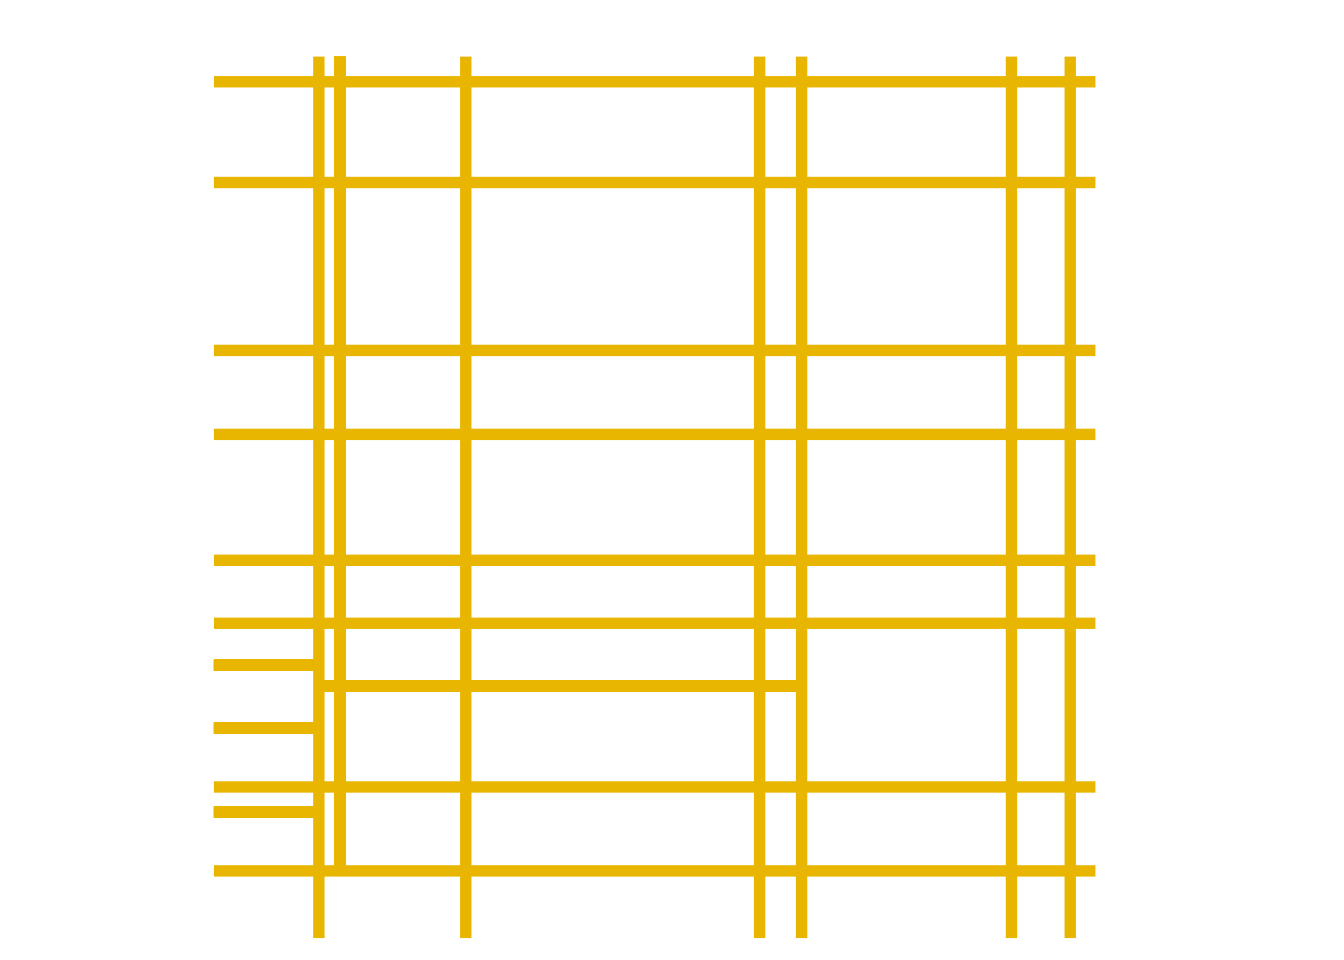
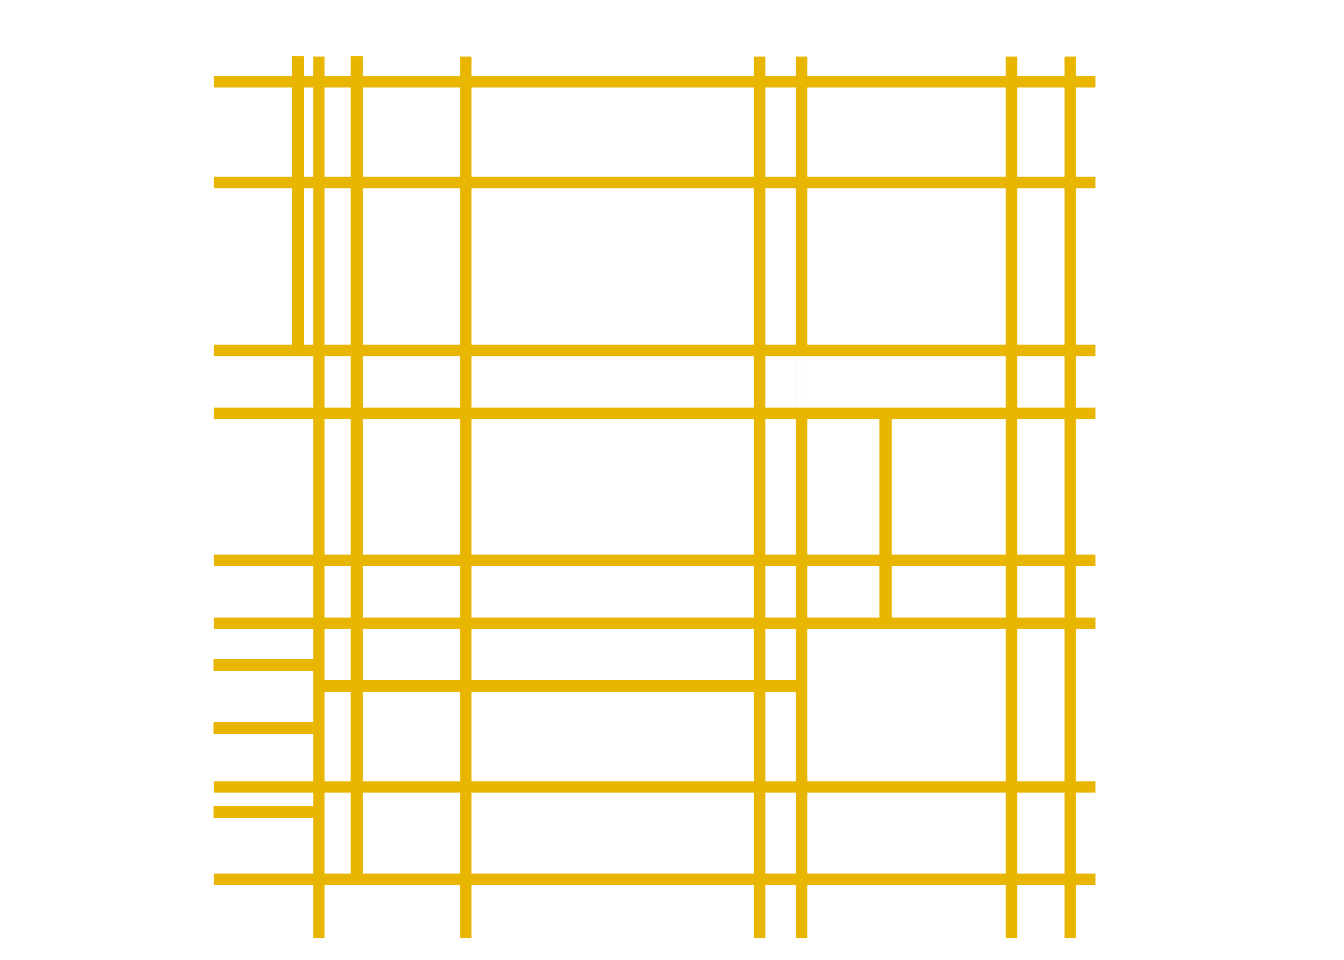
plot lines done

Changed region(s): [[0.1562, 0.0625, 0.8125, 0.9375]]

diff --git a/Painting4.html b/Painting4.html
@@ -125,6 +125,8 @@ pre > code.sourceCode > span > a:first-child::before { text-decoration: underlin
 <span id="cb4-9"><a href="#cb4-9" aria-hidden="true" tabindex="-1"></a>    <span class="at">aspect.ratio =</span> <span class="dv">1</span>)</span>
 <span id="cb4-10"><a href="#cb4-10" aria-hidden="true" tabindex="-1"></a>}</span></code><button title="Copy to Clipboard" class="code-copy-button"><i class="bi"></i></button></pre></div>
 </div>
+<p><em>Plot 4 outline</em>:</p>
+<p>plot base: done plot lines: done rectangles: line dots:</p>
 <div class="cell">
 <div class="sourceCode cell-code" id="cb5"><pre class="sourceCode r code-with-copy"><code class="sourceCode r"><span id="cb5-1"><a href="#cb5-1" aria-hidden="true" tabindex="-1"></a><span class="fu">set.seed</span>(<span class="dv">1</span>)</span>
 <span id="cb5-2"><a href="#cb5-2" aria-hidden="true" tabindex="-1"></a></span>
@@ -145,21 +147,24 @@ pre > code.sourceCode > span > a:first-child::before { text-decoration: underlin
 <span id="cb5-17"><a href="#cb5-17" aria-hidden="true" tabindex="-1"></a></span>
 <span id="cb5-18"><a href="#cb5-18" aria-hidden="true" tabindex="-1"></a>horizontal_lines <span class="ot">&lt;-</span> <span class="fu">data.frame</span>(</span>
 <span id="cb5-19"><a href="#cb5-19" aria-hidden="true" tabindex="-1"></a>  <span class="at">x =</span> <span class="fu">c</span>(<span class="dv">10</span>, <span class="dv">10</span>, <span class="dv">10</span>, <span class="dv">10</span>, <span class="dv">10</span>, <span class="dv">10</span>, <span class="dv">10</span>, <span class="dv">10</span>),</span>
-<span id="cb5-20"><a href="#cb5-20" aria-hidden="true" tabindex="-1"></a>  <span class="at">y =</span> <span class="fu">c</span>(<span class="fl">0.3</span>, <span class="fl">1.3</span>, <span class="fl">3.25</span>, <span class="dv">4</span>, <span class="fl">5.5</span>, <span class="fl">6.5</span>, <span class="fl">8.5</span>, <span class="fl">9.7</span>)</span>
+<span id="cb5-20"><a href="#cb5-20" aria-hidden="true" tabindex="-1"></a>  <span class="at">y =</span> <span class="fu">c</span>(<span class="fl">0.2</span>, <span class="fl">1.3</span>, <span class="fl">3.25</span>, <span class="dv">4</span>, <span class="fl">5.75</span>, <span class="fl">6.5</span>, <span class="fl">8.5</span>, <span class="fl">9.7</span>)</span>
 <span id="cb5-21"><a href="#cb5-21" aria-hidden="true" tabindex="-1"></a>)</span>
 <span id="cb5-22"><a href="#cb5-22" aria-hidden="true" tabindex="-1"></a></span>
 <span id="cb5-23"><a href="#cb5-23" aria-hidden="true" tabindex="-1"></a></span>
 <span id="cb5-24"><a href="#cb5-24" aria-hidden="true" tabindex="-1"></a><span class="fu">ggplot</span>() <span class="sc">+</span></span>
 <span id="cb5-25"><a href="#cb5-25" aria-hidden="true" tabindex="-1"></a>  <span class="fu">geom_segment</span>(<span class="at">data =</span> vertical_lines, <span class="fu">aes</span>(<span class="at">x =</span> x, <span class="at">y =</span> <span class="sc">-</span><span class="fl">0.5</span>, <span class="at">xend =</span> x, <span class="at">yend =</span> y), <span class="at">color =</span> <span class="st">"#E8B600"</span>, <span class="at">size =</span> <span class="dv">2</span>) <span class="sc">+</span></span>
-<span id="cb5-26"><a href="#cb5-26" aria-hidden="true" tabindex="-1"></a>  <span class="fu">geom_segment</span>(<span class="at">data =</span> vertical_lines, <span class="fu">aes</span>(<span class="at">x =</span> <span class="dv">1</span>, <span class="at">y =</span> <span class="fl">0.3</span>, <span class="at">xend =</span> <span class="dv">1</span>, <span class="at">yend =</span> y), <span class="at">color =</span> <span class="st">"#E8B600"</span>, <span class="at">size =</span> <span class="dv">2</span>) <span class="sc">+</span></span>
-<span id="cb5-27"><a href="#cb5-27" aria-hidden="true" tabindex="-1"></a>  <span class="fu">geom_segment</span>(<span class="at">data =</span> horizontal_lines, <span class="fu">aes</span>(<span class="at">x =</span> <span class="sc">-</span><span class="fl">0.5</span>, <span class="at">y =</span> y, <span class="at">xend =</span> x, <span class="at">yend =</span> y), <span class="at">color =</span> <span class="st">"#E8B600"</span>, <span class="at">size =</span> <span class="dv">2</span>) <span class="sc">+</span></span>
-<span id="cb5-28"><a href="#cb5-28" aria-hidden="true" tabindex="-1"></a>  <span class="fu">geom_segment</span>(<span class="at">data=</span> horizontal_lines, <span class="fu">aes</span>(<span class="at">x=</span><span class="sc">-</span><span class="fl">0.5</span>, <span class="at">y=</span><span class="fl">2.75</span>, <span class="at">xend=</span><span class="fl">0.75</span>, <span class="at">yend=</span><span class="fl">2.75</span>), <span class="at">color =</span> <span class="st">"#E8B600"</span>, <span class="at">size =</span> <span class="dv">2</span>) <span class="sc">+</span></span>
-<span id="cb5-29"><a href="#cb5-29" aria-hidden="true" tabindex="-1"></a>  <span class="fu">geom_segment</span>(<span class="at">data=</span> horizontal_lines, <span class="fu">aes</span>(<span class="at">x=</span><span class="sc">-</span><span class="fl">0.5</span>, <span class="at">y=</span><span class="dv">2</span>, <span class="at">xend=</span><span class="fl">0.75</span>, <span class="at">yend=</span><span class="dv">2</span>), <span class="at">color =</span> <span class="st">"#E8B600"</span>, <span class="at">size =</span> <span class="dv">2</span>) <span class="sc">+</span></span>
-<span id="cb5-30"><a href="#cb5-30" aria-hidden="true" tabindex="-1"></a>  <span class="fu">geom_segment</span>(<span class="at">data=</span> horizontal_lines, <span class="fu">aes</span>(<span class="at">x=</span><span class="sc">-</span><span class="fl">0.5</span>, <span class="at">y=</span><span class="dv">1</span>, <span class="at">xend=</span><span class="fl">0.75</span>, <span class="at">yend=</span><span class="dv">1</span>), <span class="at">color =</span> <span class="st">"#E8B600"</span>, <span class="at">size =</span> <span class="dv">2</span>) <span class="sc">+</span></span>
-<span id="cb5-31"><a href="#cb5-31" aria-hidden="true" tabindex="-1"></a>  <span class="fu">geom_segment</span>(<span class="at">data=</span> horizontal_lines, <span class="fu">aes</span>(<span class="at">x=</span> <span class="fl">0.75</span>, <span class="at">y=</span><span class="fl">2.5</span>, <span class="at">xend=</span><span class="fl">6.5</span>, <span class="at">yend=</span><span class="fl">2.5</span>), <span class="at">color =</span> <span class="st">"#E8B600"</span>, <span class="at">size =</span> <span class="dv">2</span>) <span class="sc">+</span></span>
-<span id="cb5-32"><a href="#cb5-32" aria-hidden="true" tabindex="-1"></a>  <span class="fu">coord_cartesian</span>(<span class="at">xlim =</span> <span class="fu">c</span>(<span class="dv">0</span>, <span class="dv">10</span>), <span class="at">ylim =</span> <span class="fu">c</span>(<span class="dv">0</span>, <span class="dv">10</span>)) <span class="sc">+</span></span>
-<span id="cb5-33"><a href="#cb5-33" aria-hidden="true" tabindex="-1"></a>  <span class="fu">scale_fill_identity</span>() <span class="sc">+</span></span>
-<span id="cb5-34"><a href="#cb5-34" aria-hidden="true" tabindex="-1"></a>  <span class="fu">my_theme</span>()</span></code><button title="Copy to Clipboard" class="code-copy-button"><i class="bi"></i></button></pre></div>
+<span id="cb5-26"><a href="#cb5-26" aria-hidden="true" tabindex="-1"></a>  <span class="fu">geom_segment</span>(<span class="at">data =</span> vertical_lines, <span class="fu">aes</span>(<span class="at">x =</span> <span class="fl">1.2</span>, <span class="at">y =</span> <span class="fl">0.2</span>, <span class="at">xend =</span> <span class="fl">1.2</span>, <span class="at">yend =</span> y), <span class="at">color =</span> <span class="st">"#E8B600"</span>, <span class="at">size =</span> <span class="dv">2</span>) <span class="sc">+</span></span>
+<span id="cb5-27"><a href="#cb5-27" aria-hidden="true" tabindex="-1"></a>  <span class="fu">geom_segment</span>(<span class="at">data =</span> vertical_lines, <span class="fu">aes</span>(<span class="at">x =</span> <span class="fl">0.5</span>, <span class="at">y =</span> <span class="fl">6.5</span>, <span class="at">xend =</span> <span class="fl">0.5</span>, <span class="at">yend =</span> y), <span class="at">color =</span> <span class="st">"#E8B600"</span>, <span class="at">size =</span> <span class="dv">2</span>) <span class="sc">+</span></span>
+<span id="cb5-28"><a href="#cb5-28" aria-hidden="true" tabindex="-1"></a>  <span class="fu">geom_segment</span>(<span class="at">data =</span> vertical_lines, <span class="fu">aes</span>(<span class="at">x =</span> <span class="fl">6.5</span>, <span class="at">y =</span> <span class="fl">5.75</span>, <span class="at">xend =</span> <span class="fl">6.5</span>, <span class="at">yend =</span> <span class="fl">6.5</span>), <span class="at">color =</span> <span class="st">"white"</span>, <span class="at">size =</span> <span class="dv">2</span>) <span class="sc">+</span></span>
+<span id="cb5-29"><a href="#cb5-29" aria-hidden="true" tabindex="-1"></a>  <span class="fu">geom_segment</span>(<span class="at">data =</span> vertical_lines, <span class="fu">aes</span>(<span class="at">x =</span> <span class="fl">7.5</span>, <span class="at">y =</span> <span class="fl">3.25</span>, <span class="at">xend =</span> <span class="fl">7.5</span>, <span class="at">yend =</span> <span class="fl">5.75</span>), <span class="at">color =</span> <span class="st">"#E8B600"</span>, <span class="at">size =</span> <span class="dv">2</span>) <span class="sc">+</span></span>
+<span id="cb5-30"><a href="#cb5-30" aria-hidden="true" tabindex="-1"></a>  <span class="fu">geom_segment</span>(<span class="at">data =</span> horizontal_lines, <span class="fu">aes</span>(<span class="at">x =</span> <span class="sc">-</span><span class="fl">0.5</span>, <span class="at">y =</span> y, <span class="at">xend =</span> x, <span class="at">yend =</span> y), <span class="at">color =</span> <span class="st">"#E8B600"</span>, <span class="at">size =</span> <span class="dv">2</span>) <span class="sc">+</span></span>
+<span id="cb5-31"><a href="#cb5-31" aria-hidden="true" tabindex="-1"></a>  <span class="fu">geom_segment</span>(<span class="at">data=</span> horizontal_lines, <span class="fu">aes</span>(<span class="at">x=</span><span class="sc">-</span><span class="fl">0.5</span>, <span class="at">y=</span><span class="fl">2.75</span>, <span class="at">xend=</span><span class="fl">0.75</span>, <span class="at">yend=</span><span class="fl">2.75</span>), <span class="at">color =</span> <span class="st">"#E8B600"</span>, <span class="at">size =</span> <span class="dv">2</span>) <span class="sc">+</span></span>
+<span id="cb5-32"><a href="#cb5-32" aria-hidden="true" tabindex="-1"></a>  <span class="fu">geom_segment</span>(<span class="at">data=</span> horizontal_lines, <span class="fu">aes</span>(<span class="at">x=</span><span class="sc">-</span><span class="fl">0.5</span>, <span class="at">y=</span><span class="dv">2</span>, <span class="at">xend=</span><span class="fl">0.75</span>, <span class="at">yend=</span><span class="dv">2</span>), <span class="at">color =</span> <span class="st">"#E8B600"</span>, <span class="at">size =</span> <span class="dv">2</span>) <span class="sc">+</span></span>
+<span id="cb5-33"><a href="#cb5-33" aria-hidden="true" tabindex="-1"></a>  <span class="fu">geom_segment</span>(<span class="at">data=</span> horizontal_lines, <span class="fu">aes</span>(<span class="at">x=</span><span class="sc">-</span><span class="fl">0.5</span>, <span class="at">y=</span><span class="dv">1</span>, <span class="at">xend=</span><span class="fl">0.75</span>, <span class="at">yend=</span><span class="dv">1</span>), <span class="at">color =</span> <span class="st">"#E8B600"</span>, <span class="at">size =</span> <span class="dv">2</span>) <span class="sc">+</span></span>
+<span id="cb5-34"><a href="#cb5-34" aria-hidden="true" tabindex="-1"></a>  <span class="fu">geom_segment</span>(<span class="at">data=</span> horizontal_lines, <span class="fu">aes</span>(<span class="at">x=</span> <span class="fl">0.75</span>, <span class="at">y=</span><span class="fl">2.5</span>, <span class="at">xend=</span><span class="fl">6.5</span>, <span class="at">yend=</span><span class="fl">2.5</span>), <span class="at">color =</span> <span class="st">"#E8B600"</span>, <span class="at">size =</span> <span class="dv">2</span>) <span class="sc">+</span></span>
+<span id="cb5-35"><a href="#cb5-35" aria-hidden="true" tabindex="-1"></a>  <span class="fu">coord_cartesian</span>(<span class="at">xlim =</span> <span class="fu">c</span>(<span class="dv">0</span>, <span class="dv">10</span>), <span class="at">ylim =</span> <span class="fu">c</span>(<span class="dv">0</span>, <span class="dv">10</span>)) <span class="sc">+</span></span>
+<span id="cb5-36"><a href="#cb5-36" aria-hidden="true" tabindex="-1"></a>  <span class="fu">scale_fill_identity</span>() <span class="sc">+</span></span>
+<span id="cb5-37"><a href="#cb5-37" aria-hidden="true" tabindex="-1"></a>  <span class="fu">my_theme</span>()</span></code><button title="Copy to Clipboard" class="code-copy-button"><i class="bi"></i></button></pre></div>
 <div class="cell-output-display">
 <div>
 <figure class="figure">
